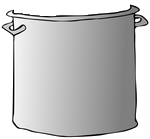
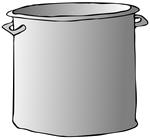
frame rate is better now

Changed region(s): [[0.08, 0.0, 0.88, 0.1151]]

diff --git a/Kitchen Samurai/Kitchen Samurai/GameView.m b/Kitchen Samurai/Kitchen Samurai/GameView.m
@@ -53,6 +53,7 @@ NSString * const numberToFileName[] = {
 @synthesize gameModel;
 @synthesize ingredientImages;
 @synthesize numberImages;
+@synthesize pot;
 
 - (id)initWithFrame:(CGRect)frame
 {
@@ -83,49 +84,15 @@ NSString * const numberToFileName[] = {
     }
     
     // set up the pot images
-    pot_bottom = [UIImage imageNamed:@"pot.png"];
-    pot_top = [UIImage imageNamed:@"pot_top.png"];
+    pot = [UIImage imageNamed:@"pot.png"];
 }
 
-
-// Only override drawRect: if you perform custom drawing.
-// An empty implementation adversely affects performance during animation.
-- (void)drawRect:(CGRect)rect
-{
-    //Draw topleft window
-    float x=20;
-    float y=20;
-    for(id type in gameModel.ingredientsLeft)
-    {
-        id number = [gameModel.ingredientsLeft valueForKey:type];
-        UIImage* image = [ingredientImages objectAtIndex:[type intValue]];
-        [image drawAtPoint:CGPointMake(x,y)];
-        UIImage* numberimage = [numberImages objectAtIndex:[number intValue]];
-        if([number intValue]==0){
-            [numberimage drawAtPoint:CGPointMake(x,y)];
-        }
-        else{
-            [numberimage drawAtPoint:CGPointMake(x+100,y)];
-        }
-        y+=100;
-    }
-    
-    //Draw ingredients on screen
-    for(Ingredient* i in gameModel.ingredientsOnScreen)
-    {
-        UIImage* image = [ingredientImages objectAtIndex:(int)i.ingredientType];
-        //[image drawAtPoint:CGPointMake(i.xPos - image.size.width/2, 768 - i.yPos - image.size.height/2) blendMode:kCGBlendModeNormal alpha:i.alpha];
-        [image drawAtPoint:CGPointMake(i.xPos - image.size.width/2, 768 - i.yPos - image.size.height/2)];
-    }
-    CGPoint top_left = CGPointMake(gameModel.pot.xPos - pot_top.size.width/2,768 - gameModel.pot.yPos - pot_top.size.height/2);
-    [pot_top drawAtPoint:top_left];
-    [pot_bottom drawAtPoint:top_left];
-}
 
 - (void)dealloc
 {
     [ingredientImages release];
     [gameModel release];
+    [pot release];
     [super dealloc];
 }
 

diff --git a/Kitchen Samurai/Kitchen Samurai/GameScreen.m b/Kitchen Samurai/Kitchen Samurai/GameScreen.m
@@ -11,6 +11,7 @@
 #import "Game.h"
 #import "GameView.h"
 #import "PhysicalObject.h"
+#import "Ingredient.h"
 
 @implementation GameScreen
 
@@ -34,9 +35,8 @@
 - (void)dragPot:(id)sender
 {
     CGPoint touchPoint =  [drag locationOfTouch:0 inView:drag.view];
-    //CGRect pot = CGRectMake(game.pot.xPos-75, 768-game.pot.yPos-70, 150, 140);
-    if (touchPoint.y > 636)
-        game.pot.xPos = touchPoint.x;
+    game.pot.xPos = touchPoint.x;
+    [game.pot.image setCenter:CGPointMake(game.pot.xPos, 768 - game.pot.yPos)];
 }
 
 - (void)dealloc
@@ -133,5 +133,29 @@
     else
         return YES;
 }*/
+
+-(UIImageView*)addIngredientToView:(Ingredient *)i
+{
+    GameView* gameView = (GameView*)self.view;
+    UIImage* image = [gameView.ingredientImages objectAtIndex:(int)i.ingredientType];
+    UIImageView *imageView = [ [ UIImageView alloc ] initWithFrame:CGRectMake(i.xPos-image.size.width/2, 768 - i.yPos-image.size.height/2, image.size.width, image.size.height)];
+    imageView.image = image;
+    [gameView addSubview:imageView];
+    [image release];
+    [imageView autorelease];
+    return imageView;
+}
+
+-(UIImageView*)addPotToView:(PhysicalObject *)p
+{
+    GameView* gameView = (GameView*)self.view;
+    UIImage* image = gameView.pot;
+    UIImageView *imageView = [ [ UIImageView alloc ] initWithFrame:CGRectMake(p.xPos-image.size.width/2, 768 - p.yPos-image.size.height/2, image.size.width, image.size.height)];
+    imageView.image = image;
+    [gameView addSubview:imageView];
+    [image release];
+    [imageView autorelease];
+    return imageView;
+}
 
 @end

diff --git a/Kitchen Samurai/Kitchen Samurai/PhysicalObject.m b/Kitchen Samurai/Kitchen Samurai/PhysicalObject.m
@@ -16,6 +16,7 @@ float gravity = -320.0f;
 @synthesize xVel;
 @synthesize yVel;
 @synthesize radius;
+@synthesize image;
 
 - (id)init:(float)xPosition : (float) yPosition : (float) xVelocity : (float) yVelocity :(float) collisionRadius
 {
@@ -35,6 +36,7 @@ float gravity = -320.0f;
     xPos += xVel * timeSinceLastFrame;
     yPos += yVel * timeSinceLastFrame;
     yVel = yVel + gravity * timeSinceLastFrame;
+    [image setCenter:CGPointMake(xPos, 768-yPos)];
 }
 
 - (BOOL)checkCollisionWithLine:(float)startX: (float)startY: (float)endX: (float)endY
@@ -64,6 +66,12 @@ float gravity = -320.0f;
         return YES;
     else
         return NO;
+}
+
+- (void) dealloc
+{
+    [image removeFromSuperview];
+    [super dealloc];
 }
 
 - (BOOL) isOffscreen

diff --git a/Kitchen Samurai/Kitchen Samurai/Game.m b/Kitchen Samurai/Kitchen Samurai/Game.m
@@ -42,6 +42,7 @@ float prevTime;
     
     // add the pot
     self.pot = [[PhysicalObject alloc] init:512 :64 :0 :0 :64];
+    pot.image = [viewController addPotToView:pot];
     
     prevTime=0;
 }
@@ -50,7 +51,7 @@ float prevTime;
 {
     [self.displayLink removeFromRunLoop:[NSRunLoop currentRunLoop] forMode:NSDefaultRunLoopMode];
     [ingredientsOnScreen release];   //kill all ingredients and array
-    //[pot release];
+    [pot release];
 }
 
 - (void)pauseGame
@@ -74,6 +75,7 @@ float prevTime;
     Ingredient*i=[generator giveIngredient];
     if(i!=nil){
         [ingredientsOnScreen addObject:i];
+        i.image = [viewController addIngredientToView:i];
     }
 
     [self moveAndCatchIngredients: time];

diff --git a/Kitchen Samurai/Kitchen Samurai/GameView.h b/Kitchen Samurai/Kitchen Samurai/GameView.h
@@ -7,12 +7,12 @@
 //
 
 #import <UIKit/UIKit.h>
+#import <CoreGraphics/CGLayer.h>
 
 @class Game;
+@class Ingredient;
 
 @interface GameView : UIView {
-    UIImage* pot_bottom;
-    UIImage* pot_top;
 }
 
 - (void) initIngredientImages;
@@ -20,5 +20,6 @@
 @property (nonatomic, retain) Game *gameModel;
 @property (nonatomic, retain) NSMutableArray *ingredientImages;
 @property (nonatomic, retain) NSMutableArray *numberImages;
+@property (nonatomic, retain) UIImage *pot;
 
 @end

diff --git a/Kitchen Samurai/Kitchen Samurai/GameScreen.h b/Kitchen Samurai/Kitchen Samurai/GameScreen.h
@@ -11,6 +11,7 @@
 
 @class Kitchen_SamuraiAppDelegate;
 @class Game;
+@class Ingredient;
 
 @interface GameScreen : UIViewController <UIGestureRecognizerDelegate> {
     UILongPressGestureRecognizer *drag;
@@ -25,5 +26,7 @@
 - (IBAction)quitGameButtonClicked:(id)sender;
 - (void)performSwipe:(id)sender;
 - (void)dragPot:(id)sender;
+-(UIImageView*)addIngredientToView:(Ingredient *)i;
+-(UIImageView*)addPotToView:(PhysicalObject *)p;
 
 @end

diff --git a/Kitchen Samurai/Kitchen Samurai/PhysicalObject.h b/Kitchen Samurai/Kitchen Samurai/PhysicalObject.h
@@ -17,6 +17,7 @@
 @property (nonatomic) float xVel;
 @property (nonatomic) float yVel;
 @property (nonatomic) float radius; // for collision detection
+@property (nonatomic, retain) UIImageView* image;
 
 - (id)init:(float)xPosition : (float) yPosition : (float) xVelocity : (float) yVelocity : (float) collisionRadius;
 - (void)updatePosition:(float)timeSinceLastFrame;
